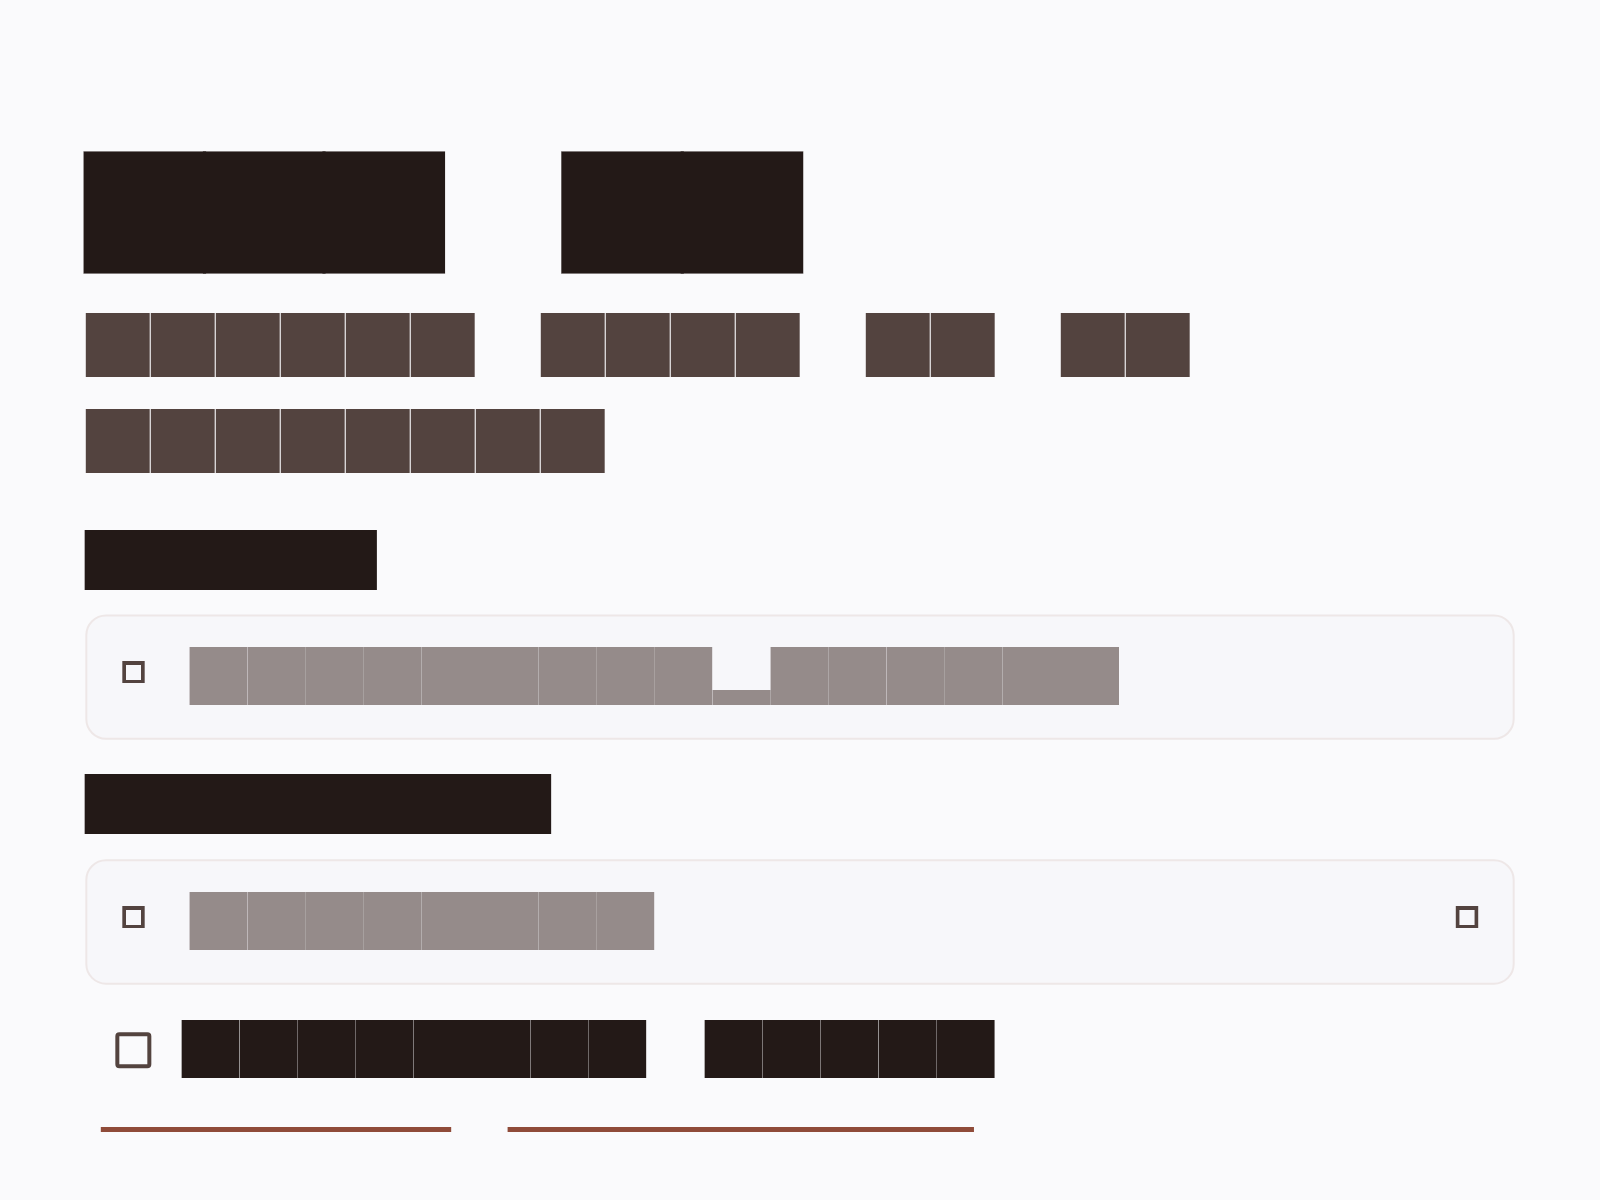
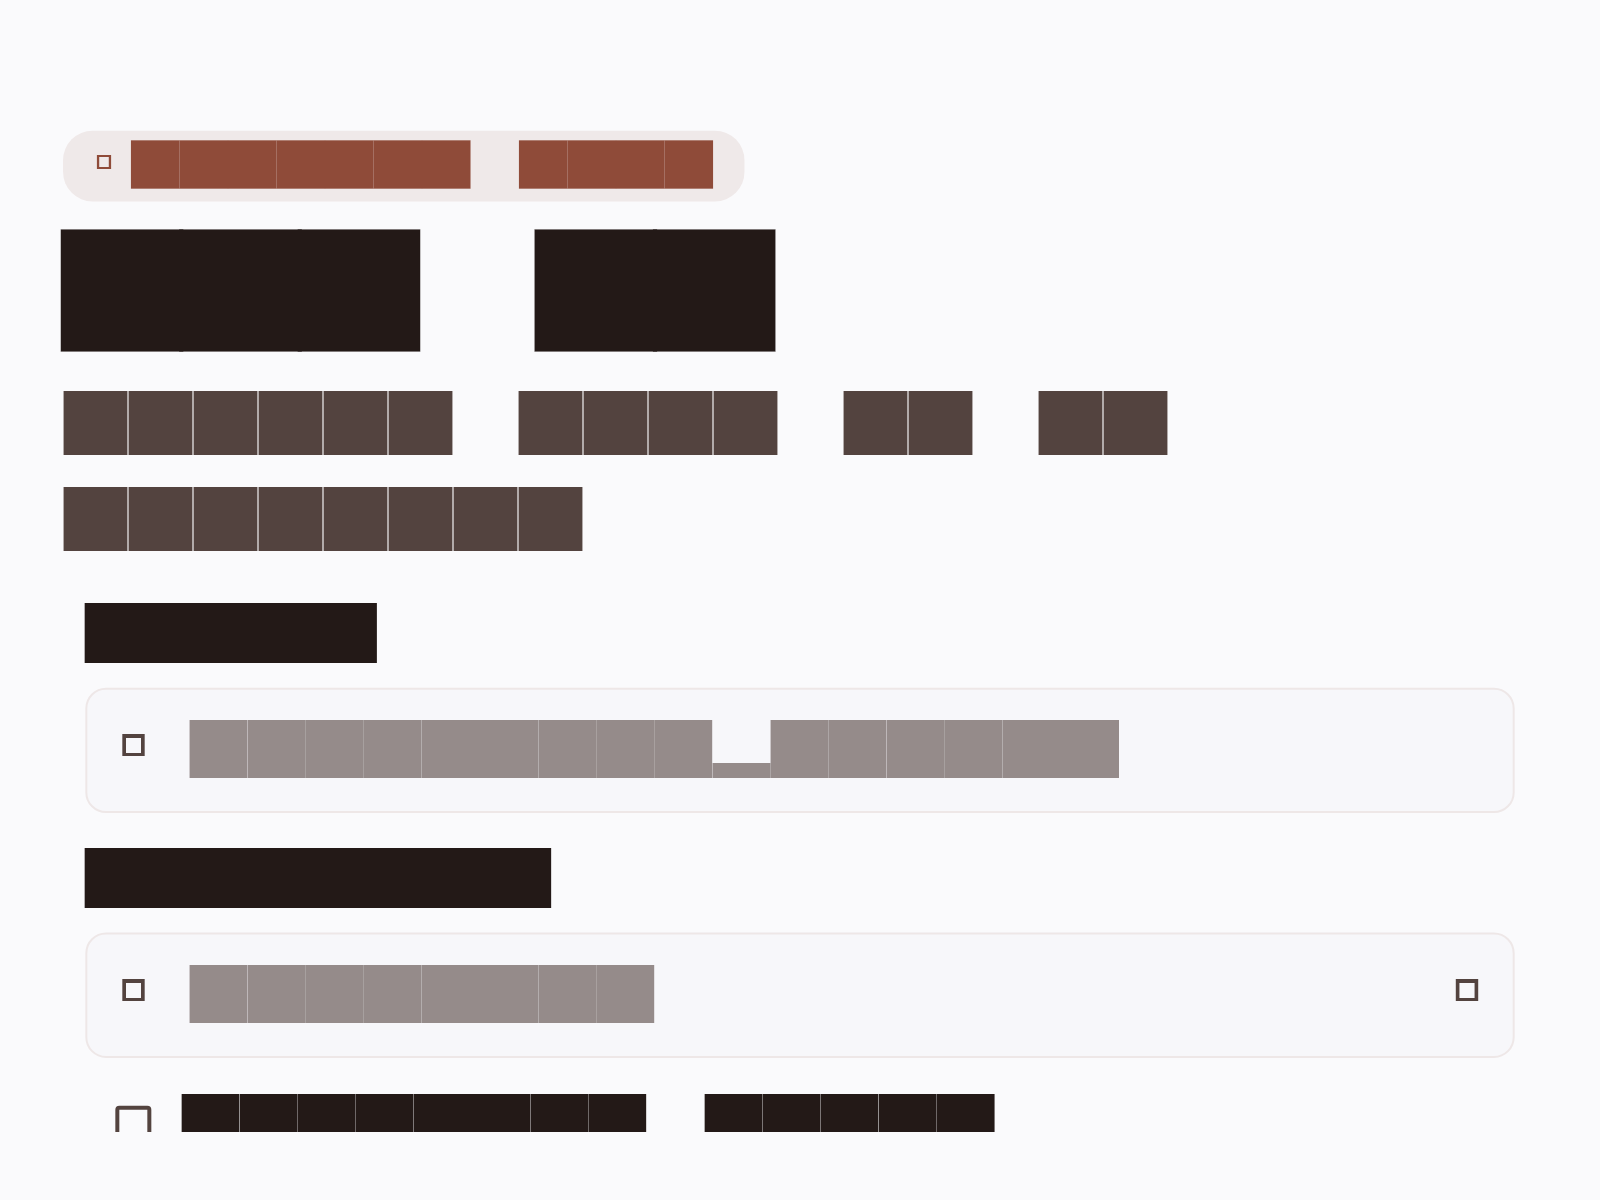
feat(auth): implement Phase 3 - modernize login, signup, and forgot password headers with pill badges and refined typography

Changed region(s): [[0.0312, 0.0925, 0.75, 0.9558], [0.9062, 0.8017, 0.9375, 0.8325], [0.9062, 0.74, 0.9375, 0.7708]]

diff --git a/lib/features/authentication/sections/forgot_password_header_section.dart b/lib/features/authentication/sections/forgot_password_header_section.dart
@@ -16,7 +16,7 @@ class ForgotPasswordHeaderSection extends StatelessWidget {
 
     return SliverToBoxAdapter(
       child: Padding(
-        padding: EdgeInsets.symmetric(horizontal: 20.w, vertical: 12.h),
+        padding: EdgeInsets.symmetric(horizontal: 20.w, vertical: 12.h).r,
         child: Column(
           crossAxisAlignment: CrossAxisAlignment.start,
           children: [
@@ -27,12 +27,39 @@ class ForgotPasswordHeaderSection extends StatelessWidget {
               ),
               16.verticalSpace,
             ] else
-              24.verticalSpace,
+              20.verticalSpace,
+            Container(
+              padding: EdgeInsets.symmetric(horizontal: 10.w, vertical: 4.h).r,
+              decoration: BoxDecoration(
+                color: colors.primary.withValues(alpha: 0.1),
+                borderRadius: BorderRadius.circular(20).r,
+              ),
+              child: Row(
+                mainAxisSize: MainAxisSize.min,
+                children: [
+                  Icon(
+                    Icons.lock_reset_rounded,
+                    size: 13.r,
+                    color: colors.primary,
+                  ),
+                  4.horizontalSpace,
+                  AppText(
+                    'RECOVERY',
+                    style: AppTextStyles.labelSmall(context).copyWith(
+                      color: colors.primary,
+                      fontWeight: FontWeight.w800,
+                      letterSpacing: 0.8,
+                    ),
+                  ),
+                ],
+              ),
+            ),
+            12.verticalSpace,
             AppText(
               t.forgotPassword,
               style: AppTextStyles.headlineMedium(
                 context,
-              ).copyWith(fontWeight: FontWeight.bold),
+              ).copyWith(fontWeight: FontWeight.w800, letterSpacing: -0.5),
             ),
             8.verticalSpace,
             AppText(

diff --git a/lib/features/authentication/sections/signup_header_section.dart b/lib/features/authentication/sections/signup_header_section.dart
@@ -16,7 +16,7 @@ class SignupHeaderSection extends StatelessWidget {
 
     return SliverToBoxAdapter(
       child: Padding(
-        padding: EdgeInsets.symmetric(horizontal: 20.w, vertical: 12.h),
+        padding: EdgeInsets.symmetric(horizontal: 20.w, vertical: 12.h).r,
         child: Column(
           crossAxisAlignment: CrossAxisAlignment.start,
           children: [
@@ -27,12 +27,39 @@ class SignupHeaderSection extends StatelessWidget {
               ),
               16.verticalSpace,
             ] else
-              24.verticalSpace,
+              20.verticalSpace,
+            Container(
+              padding: EdgeInsets.symmetric(horizontal: 10.w, vertical: 4.h).r,
+              decoration: BoxDecoration(
+                color: colors.primary.withValues(alpha: 0.1),
+                borderRadius: BorderRadius.circular(20).r,
+              ),
+              child: Row(
+                mainAxisSize: MainAxisSize.min,
+                children: [
+                  Icon(
+                    Icons.person_add_rounded,
+                    size: 13.r,
+                    color: colors.primary,
+                  ),
+                  4.horizontalSpace,
+                  AppText(
+                    'NEW ACCOUNT',
+                    style: AppTextStyles.labelSmall(context).copyWith(
+                      color: colors.primary,
+                      fontWeight: FontWeight.w800,
+                      letterSpacing: 0.8,
+                    ),
+                  ),
+                ],
+              ),
+            ),
+            12.verticalSpace,
             AppText(
               t.signUp,
               style: AppTextStyles.headlineMedium(
                 context,
-              ).copyWith(fontWeight: FontWeight.bold),
+              ).copyWith(fontWeight: FontWeight.w800, letterSpacing: -0.5),
             ),
             8.verticalSpace,
             AppText(

diff --git a/lib/features/authentication/sections/login_header_section.dart b/lib/features/authentication/sections/login_header_section.dart
@@ -16,7 +16,7 @@ class LoginHeaderSection extends StatelessWidget {
 
     return SliverToBoxAdapter(
       child: Padding(
-        padding: EdgeInsets.symmetric(horizontal: 20.w, vertical: 12.h),
+        padding: EdgeInsets.symmetric(horizontal: 20.w, vertical: 12.h).r,
         child: Column(
           crossAxisAlignment: CrossAxisAlignment.start,
           children: [
@@ -27,12 +27,39 @@ class LoginHeaderSection extends StatelessWidget {
               ),
               16.verticalSpace,
             ] else
-              24.verticalSpace,
+              20.verticalSpace,
+            Container(
+              padding: EdgeInsets.symmetric(horizontal: 10.w, vertical: 4.h).r,
+              decoration: BoxDecoration(
+                color: colors.primary.withValues(alpha: 0.1),
+                borderRadius: BorderRadius.circular(20).r,
+              ),
+              child: Row(
+                mainAxisSize: MainAxisSize.min,
+                children: [
+                  Icon(
+                    Icons.waving_hand_rounded,
+                    size: 13.r,
+                    color: colors.primary,
+                  ),
+                  4.horizontalSpace,
+                  AppText(
+                    'WELCOME BACK',
+                    style: AppTextStyles.labelSmall(context).copyWith(
+                      color: colors.primary,
+                      fontWeight: FontWeight.w800,
+                      letterSpacing: 0.8,
+                    ),
+                  ),
+                ],
+              ),
+            ),
+            12.verticalSpace,
             AppText(
               t.logIn,
               style: AppTextStyles.headlineMedium(
                 context,
-              ).copyWith(fontWeight: FontWeight.bold),
+              ).copyWith(fontWeight: FontWeight.w800, letterSpacing: -0.5),
             ),
             8.verticalSpace,
             AppText(
